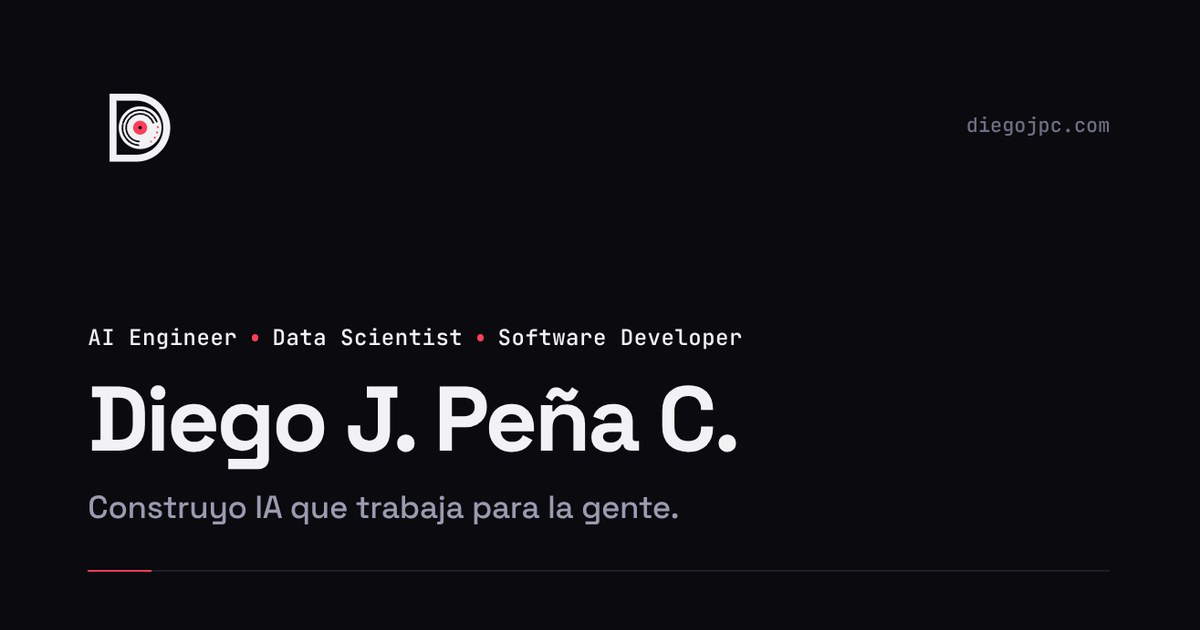
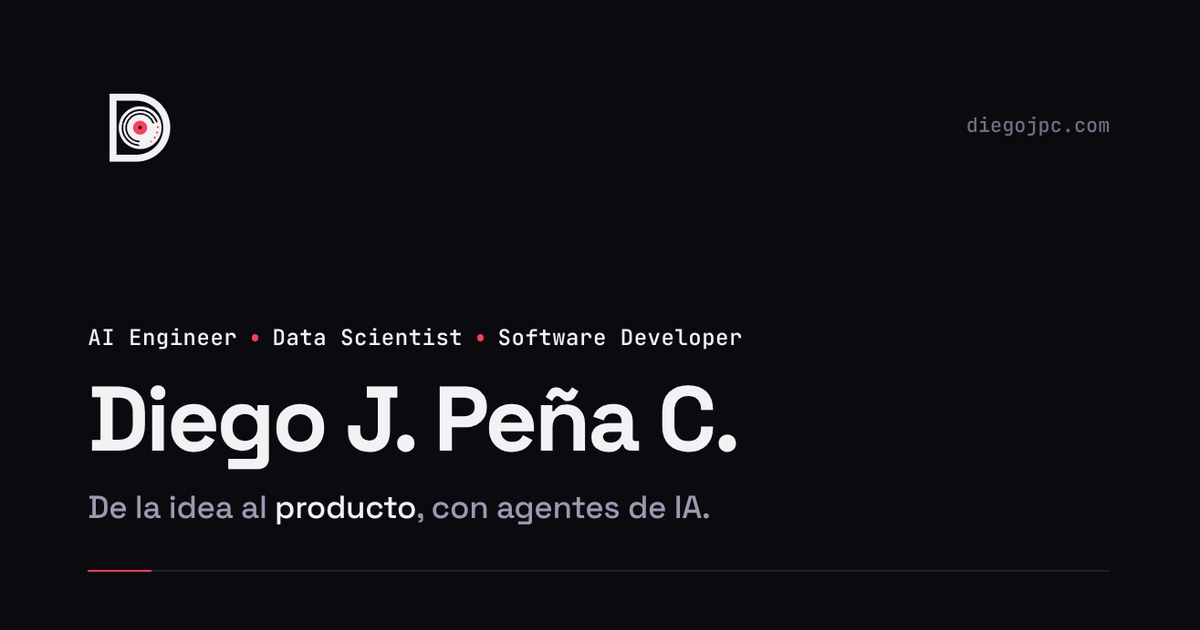
feat(frontend): "from idea to product" message around agentic AI development
Hero headline, subtitle, facts strip, meta description and share image now
describe building with AI agents, skills and MCP-connected tools.

Changed region(s): [[0.0617, 0.7841, 0.5858, 0.8444]]

diff --git a/frontend/index.html b/frontend/index.html
@@ -7,10 +7,10 @@
     <link rel="apple-touch-icon" sizes="180x180" href="/apple-touch-icon.png">
     <link rel="manifest" href="/site.webmanifest">
     <meta name="viewport" content="width=device-width, initial-scale=1.0">
-    <meta name="description" content="Diego J. Peña C. — AI Engineer, Data Scientist & Software Developer. Portfolio featuring 3D interactive experiences, AI projects, and full-stack development work.">
+    <meta name="description" content="Diego J. Peña C. — AI Engineer, Data Scientist & Software Developer. From idea to product with AI agents, skills and MCP: RAG, voice assistants and real-time ML.">
     <meta name="author" content="Diego J. Peña C.">
     <meta property="og:title" content="Diego J. Peña C. | AI Engineer · Data Scientist · Software Developer">
-    <meta property="og:description" content="AI Engineer, Data Scientist & Software Developer. RAG systems, LLM voice assistants and real-time ML in production. Talk to my AI by chat or voice.">
+    <meta property="og:description" content="From idea to product with AI agents, skills and MCP. RAG systems, LLM voice assistants and real-time ML in production. Talk to my AI by chat or voice.">
     <meta property="og:type" content="website">
     <meta property="og:url" content="https://diegojpc.com/">
     <!-- Absolute URL: LinkedIn, Facebook and WhatsApp ignore relative og:image paths -->

diff --git a/frontend/src/locales/es.js b/frontend/src/locales/es.js
@@ -9,9 +9,9 @@ export const es = {
   hero: {
     eyebrow: "Ingeniero de IA · Científico de Datos · Desarrollador de Software",
     titleA: "Hola, soy Diego.",
-    titleB: "Construyo IA que trabaja",
-    titleHighlight: "para la gente",
-    subtitle: "Desde Colombia, llevo a producción sistemas RAG, asistentes de voz con LLMs y motores de recomendación en tiempo real. Vengo de la ingeniería de sonido: el procesamiento de señales es mi base.",
+    titleB: "De la idea al",
+    titleHighlight: "producto",
+    subtitle: "Construyo como se construye hoy: agentes de IA, skills y herramientas conectadas por MCP que llevan una idea a un sistema en producción. RAG, asistentes de voz y ML en tiempo real, desde Colombia. Mi base: la ingeniería de sonido.",
     ctaProjects: "Ver proyectos",
     ctaAI: "Hablar con mi IA",
     ctaCv: "Descargar CV",
@@ -19,7 +19,7 @@ export const es = {
       f1: { value: "100+", label: "dashboards de Power BI desplegados" },
       f2: { value: "Triton · GCP", label: "recomendación en tiempo real en producción" },
       f3: { value: "RAG + Voz", label: "asistentes conversacionales con LLMs" },
-      f4: { value: "ES / EN", label: "sitio y asistente bilingües" },
+      f4: { value: "Agentes · MCP", label: "desarrollo con agentes de IA y skills" },
     },
   },
   about: {

diff --git a/frontend/src/locales/en.js b/frontend/src/locales/en.js
@@ -9,9 +9,9 @@ export const en = {
   hero: {
     eyebrow: "AI Engineer · Data Scientist · Software Developer",
     titleA: "Hi, I'm Diego.",
-    titleB: "I build AI that works",
-    titleHighlight: "for people",
-    subtitle: "From Colombia, I ship RAG systems, LLM voice assistants and real-time recommendation engines to production. I come from sound engineering: signal processing is my foundation.",
+    titleB: "From idea to",
+    titleHighlight: "product",
+    subtitle: "I build the way software is built today: AI agents, skills and MCP-connected tools that take an idea to a system in production. RAG, voice assistants and real-time ML, from Colombia. My foundation: sound engineering.",
     ctaProjects: "View projects",
     ctaAI: "Talk to my AI",
     ctaCv: "Download resume",
@@ -19,7 +19,7 @@ export const en = {
       f1: { value: "100+", label: "Power BI dashboards shipped" },
       f2: { value: "Triton · GCP", label: "real-time recommendations in production" },
       f3: { value: "RAG + Voice", label: "conversational assistants with LLMs" },
-      f4: { value: "ES / EN", label: "bilingual site and assistant" },
+      f4: { value: "Agents · MCP", label: "development with AI agents and skills" },
     },
   },
   about: {
